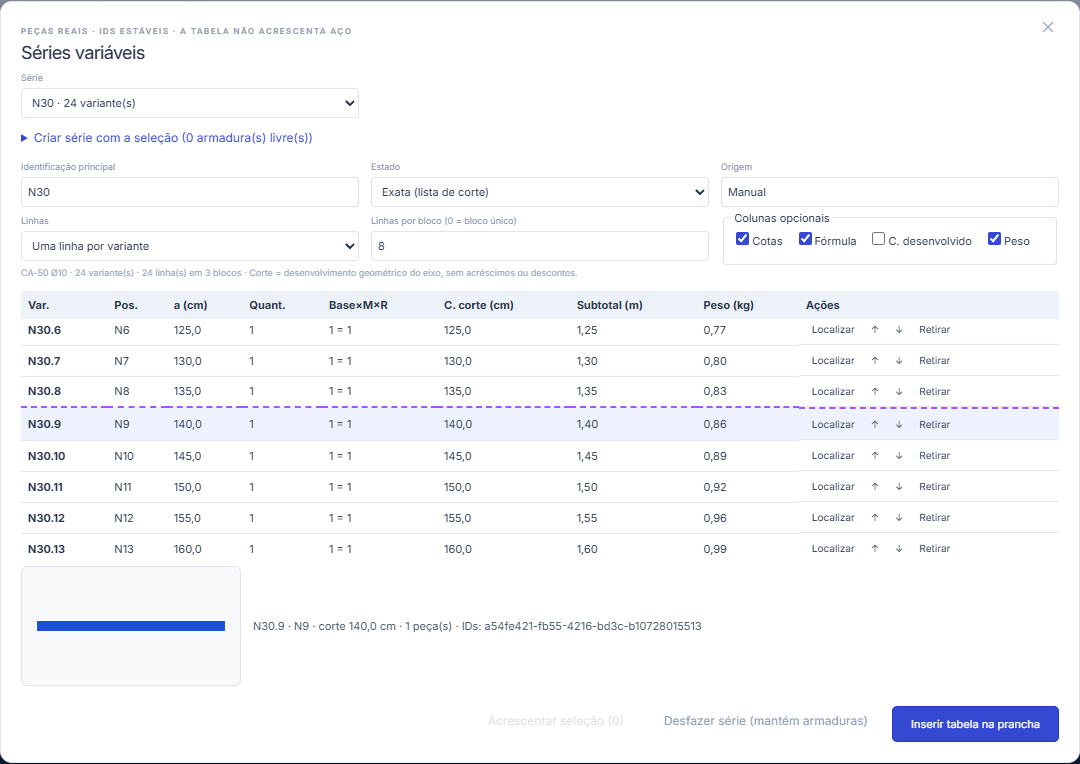
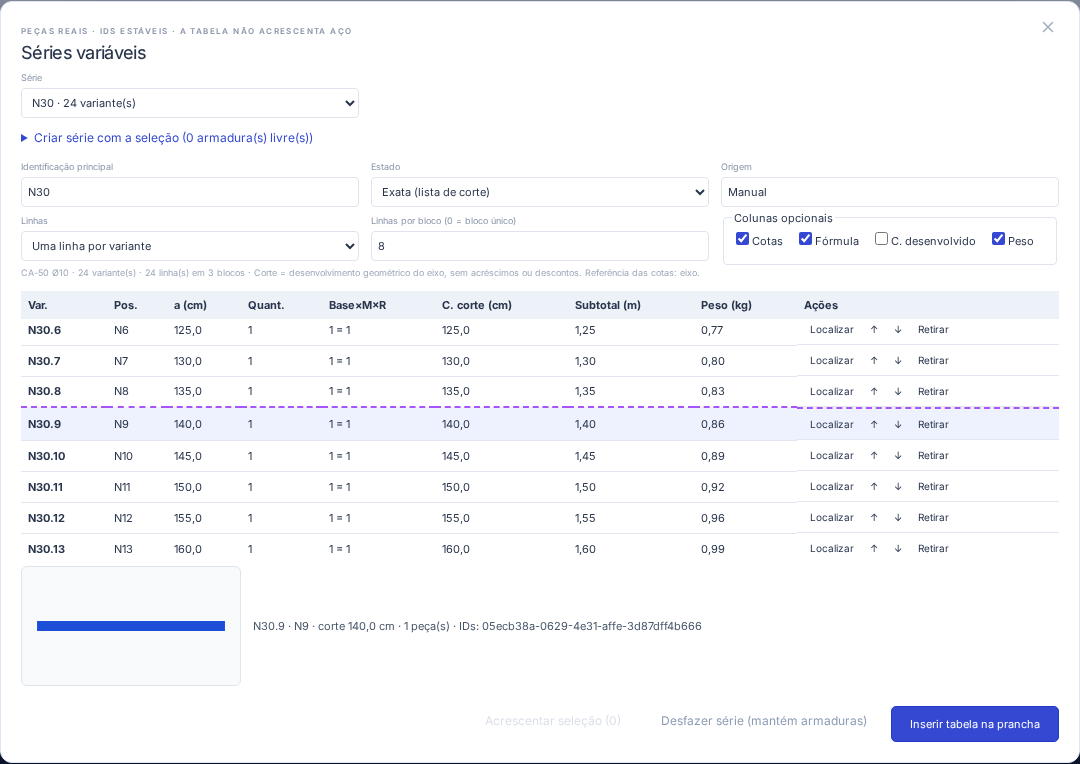
fix(formato): recusar variante de selo ainda não integrada e conferir DXF por prancha
Recusa definições e valores personalizados da PR #217 antes que o leitor /41 de máscaras os descarte. Mantém a reserva /42 e a composição /43. Acrescenta duas regressões, totalizando 1.377 testes Vitest, todos aprovados com os seis testes de distribuição, contrato do plugin e formatação.

O DXF real contém 24 variantes únicas e total de 37,80 m; o teste agora consulta o layer prefixado PRANCHA_001_TABELA_SERIE. Atualiza as capturas geradas pelo próprio spec na CI e disponibiliza evidências antes da suíte completa.

diff --git a/tests/seriesMaskCompatibility.test.ts b/tests/seriesMaskCompatibility.test.ts
@@ -56,6 +56,24 @@ const series = (p: ReturnType<typeof base>) =>
     .project;
 
 describe('compatibilidade de séries /40 e máscaras /41, composição /43', () => {
+  it.each(['armadurastruct/41', 'armadurastruct/43'] as const)(
+    'recusa explicitamente os dados da outra variante de %s, sem descarte silencioso',
+    (schema) => {
+      for (const extra of [
+        { sealPropertyDefinitions: [] },
+        { sealPropertyValues: { identificador: 'Preservar' } },
+        {
+          sheets: base().sheets.map((s) => ({
+            ...s,
+            sealPropertyValues: { identificador: 'Preservar' },
+          })),
+        },
+      ])
+        expect(() =>
+          decodeProject(JSON.stringify({ ...base(), ...extra, schema })),
+        ).toThrow(/Propriedades personalizadas.*#217/);
+    },
+  );
   it.each(['série primeiro', 'máscara primeiro'] as const)(
     '%s: compõe e reabre sem perder vínculos nem alterar aço',
     (order) => {

diff --git a/src/domain/projectSchema.ts b/src/domain/projectSchema.ts
@@ -5,6 +5,23 @@
  */
 export const SERIES_MASK_PROJECT_SCHEMA = 'armadurastruct/43' as const;
 
+/** /41 também existe na PR #217; não descarte seus campos ao ler máscaras. */
+export function hasUnsupportedSealProperties(input: unknown): boolean {
+  if (!input || typeof input !== 'object') return false;
+  const data = input as Record<string, unknown>;
+  return (
+    data.sealPropertyDefinitions !== undefined ||
+    data.sealPropertyValues !== undefined ||
+    (Array.isArray(data.sheets) &&
+      data.sheets.some(
+        (sheet) =>
+          sheet &&
+          typeof sheet === 'object' &&
+          (sheet as Record<string, unknown>).sealPropertyValues !== undefined,
+      ))
+  );
+}
+
 /** Conserva a versão após retirar recursos; nunca rebaixa a composição. */
 export function withSeriesMaskVersion<T extends { schema: string }>(
   project: T,

diff --git a/src/domain/model.ts b/src/domain/model.ts
@@ -1,4 +1,7 @@
-import { SERIES_MASK_PROJECT_SCHEMA } from './projectSchema';
+import {
+  hasUnsupportedSealProperties,
+  SERIES_MASK_PROJECT_SCHEMA,
+} from './projectSchema';
 import {
   MASK_REFERENCE_PROJECT_SCHEMA,
   detailMaskReferencesSchema,
@@ -639,6 +642,10 @@ export function decodeProject(
   options: { allowOrphanReferences?: boolean } = {},
 ): Project {
   const input = JSON.parse(raw);
+  if (hasUnsupportedSealProperties(input))
+    throw new Error(
+      'Propriedades personalizadas do selo (PR #217) ainda não são suportadas nesta versão. Os dados não foram carregados nem descartados.',
+    );
   // /40 = séries; /41 = máscaras; /43 reúne os dois contratos.
   const composedVersion = input?.schema === SERIES_MASK_PROJECT_SCHEMA;
   const seriesVersion =

diff --git a/tests/e2e/barSeries.spec.ts b/tests/e2e/barSeries.spec.ts
@@ -215,7 +215,9 @@ test('consulta 24 variantes, divide em blocos, insere na prancha sem alterar aç
     if (encoding === 'utf8') {
       const texts = new DxfParser()
         .parseSync(content)!
-        .entities.filter((e) => e.type === 'TEXT' && e.layer === 'TABELA_SERIE')
+        .entities.filter(
+          (e) => e.type === 'TEXT' && e.layer === 'PRANCHA_001_TABELA_SERIE',
+        )
         .map((e) => (e as ITextEntity).text);
       expect(texts.filter((t) => /^N30\.\d+$/.test(t))).toHaveLength(24);
       expect(texts.filter((t) => t.startsWith('Total da série'))).toHaveLength(

diff --git a/docs/TABELA-DE-COMPRIMENTOS-VARIAVEIS.md b/docs/TABELA-DE-COMPRIMENTOS-VARIAVEIS.md
@@ -74,7 +74,7 @@ A opção **Agrupar equivalentes** junta apenas variantes com a mesma assinatura
 
 ## Persistência e compatibilidade
 
-- Séries sem máscaras independentes usam **`armadurastruct/40`**; máscaras sem séries conservam **`/41`**. Ao combinar os dois recursos, o projeto passa a **`/43`**, em qualquer ordem. O `/42` permanece reservado à PR #218; a variante `/41` da PR #217 ainda exige integração separada. Selos, modelos, vínculos e exclusão de recursos não rebaixam a composição. Os contratos anteriores continuam abrindo sem inventar séries nem alterar aço. Dados novos sob cabeçalho incompatível são recusados, inclusive a composição adulterada para `/40` ou `/41`. Mantenha uma cópia antes de salvar em formato novo.
+- Séries sem máscaras independentes usam **`armadurastruct/40`**; máscaras sem séries conservam **`/41`**. Ao combinar os dois recursos, o projeto passa a **`/43`**, em qualquer ordem. O `/42` permanece reservado à PR #218; a variante `/41` da PR #217 ainda exige integração separada e seus dados de propriedades personalizadas são recusados explicitamente, sem descarte. Selos, modelos, vínculos e exclusão de recursos não rebaixam a composição. Os contratos anteriores continuam abrindo sem inventar séries nem alterar aço. Dados novos sob cabeçalho incompatível são recusados, inclusive a composição adulterada para `/40` ou `/41`. Mantenha uma cópia antes de salvar em formato novo.
 - `Project.barSeries[]`: `id`, `name`, `status`, `provenance`, `variants[]` (`id`, `barId`, `station`), `expectedVariants?`, `representativeBarId?`. `Sheet.seriesTables[]`: `id`, `seriesId`, `origin`, `textHeight`, `rowsPerBlock?`, `blockOrigins?`, `grouping`, `columns`, `visible?`. Não há geometria nem quantitativo duplicados.
 - Vínculos inexistentes, IDs repetidos, estação duplicada ou armadura em duas séries são recusados ao abrir.
 - Excluir armaduras reconcilia a série (variante retirada, série incompleta) e retira tabelas de séries esvaziadas, sem linhas órfãs.
